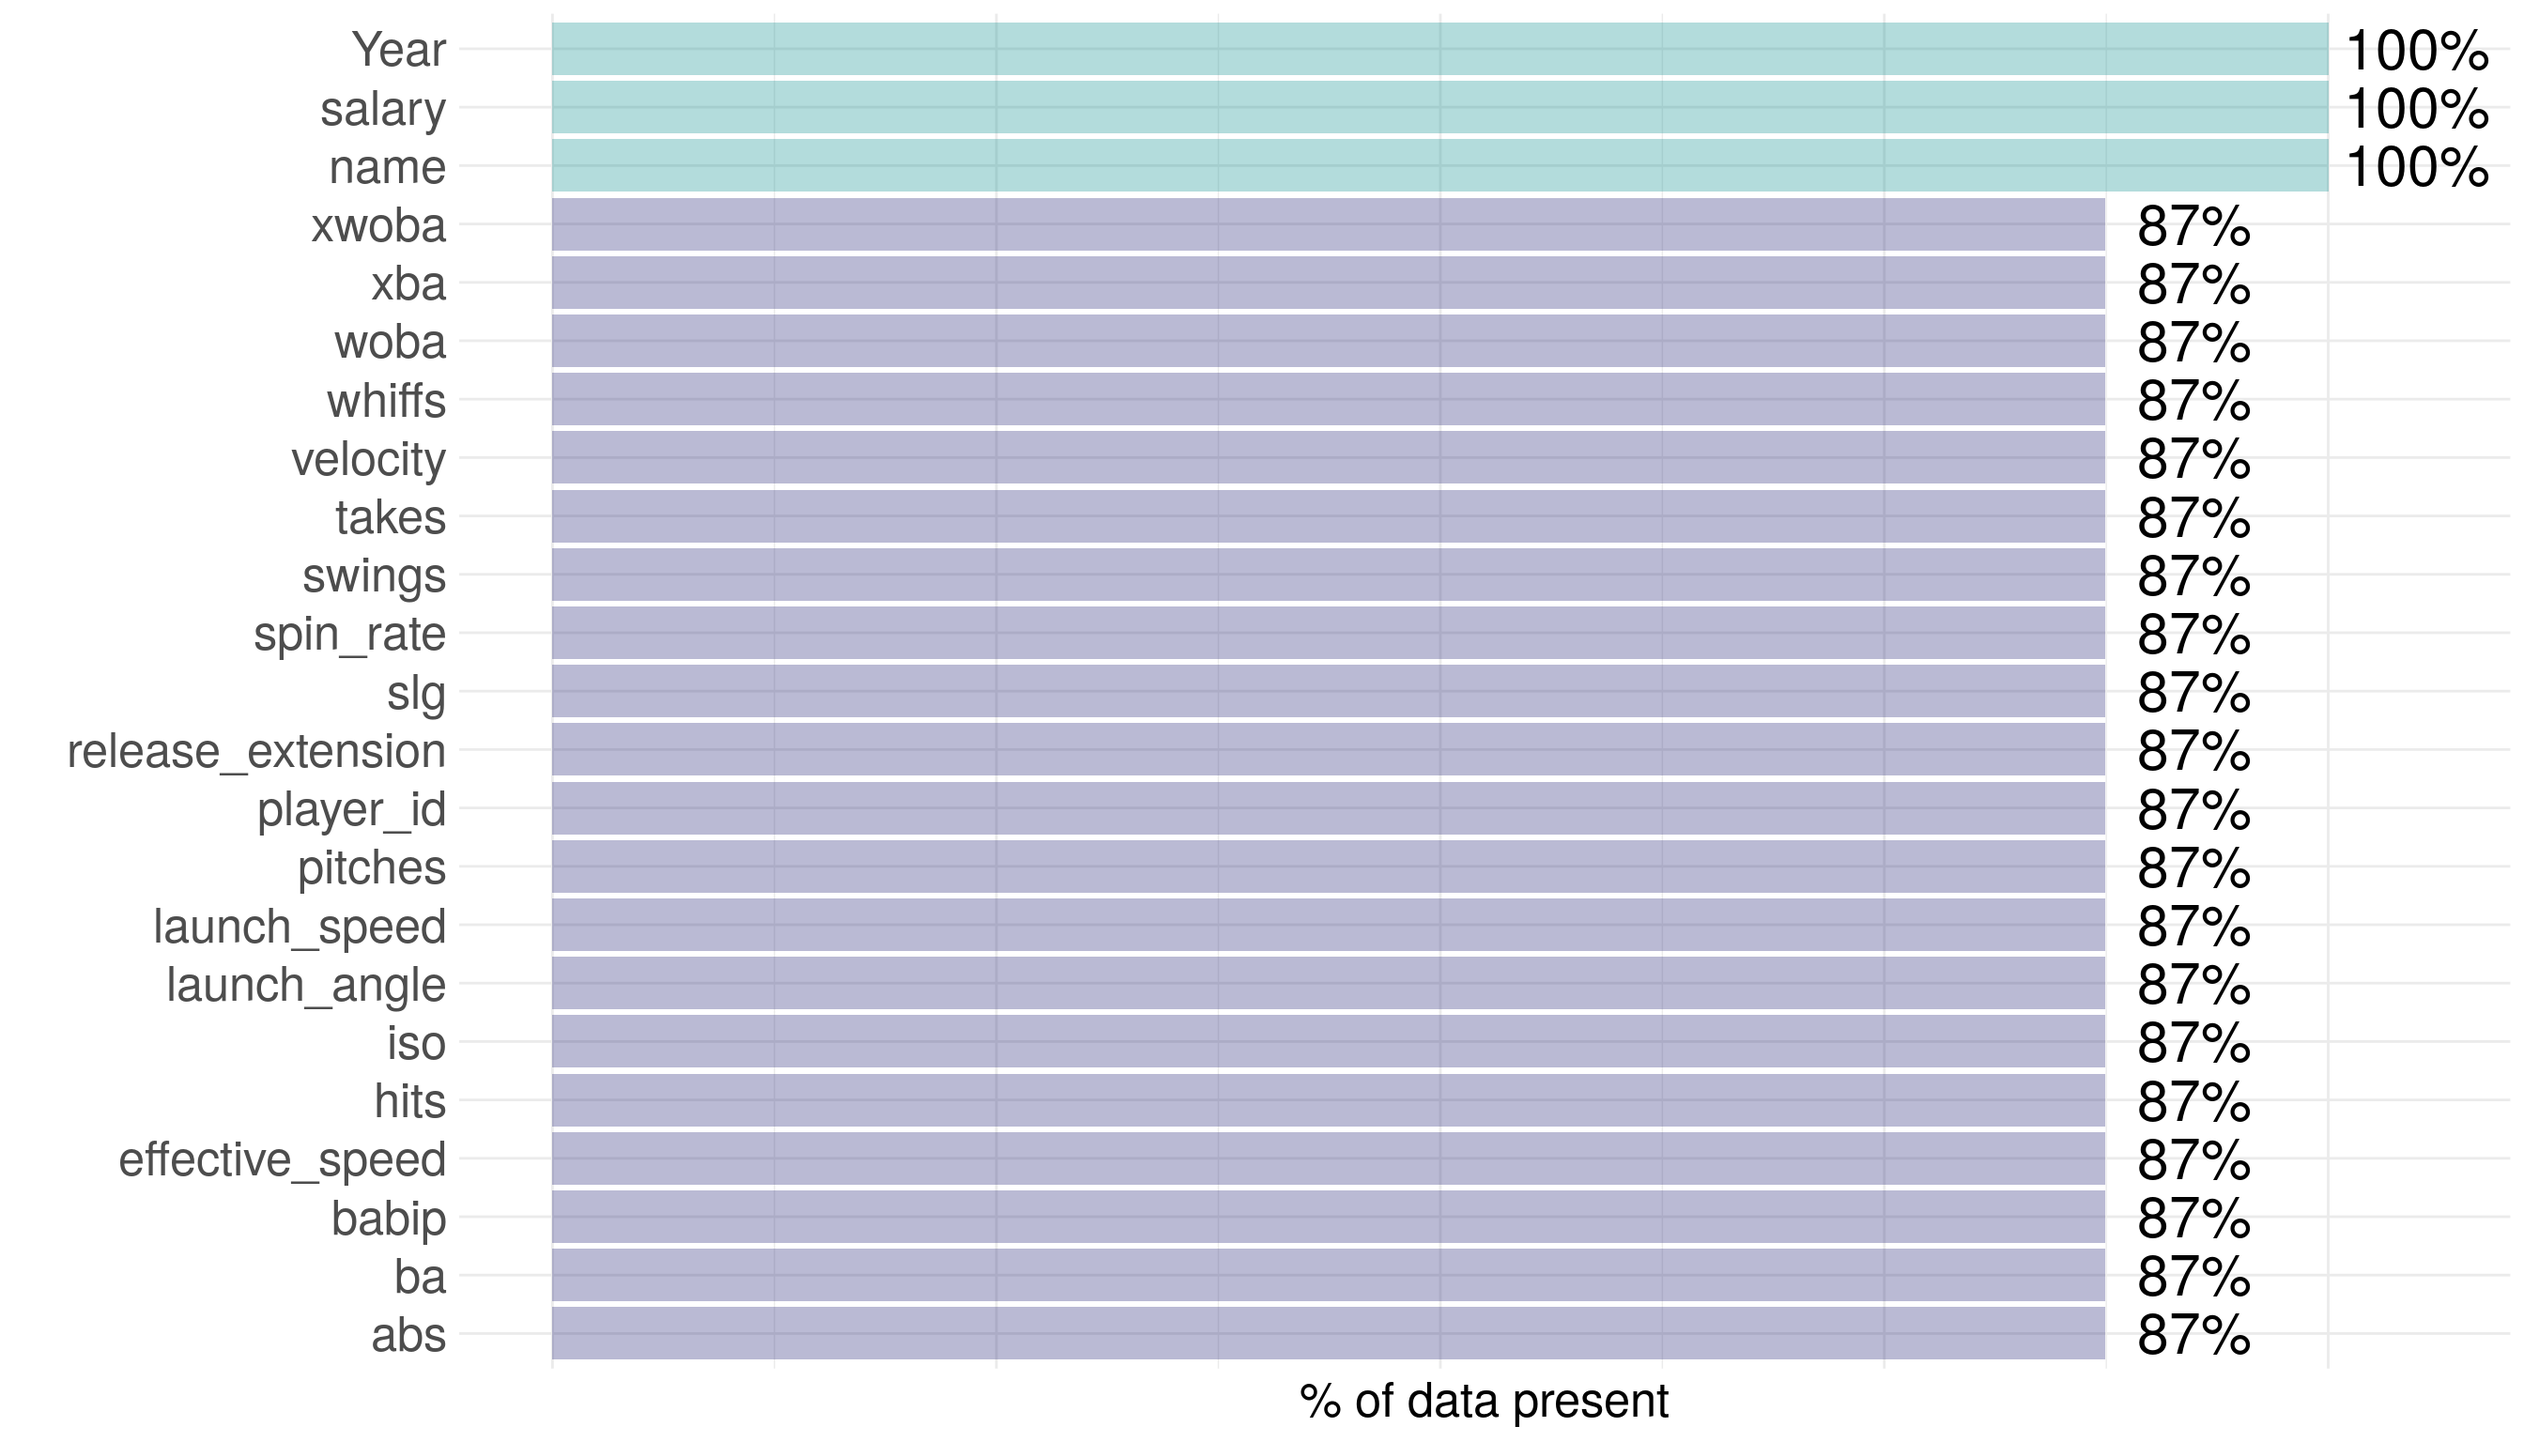
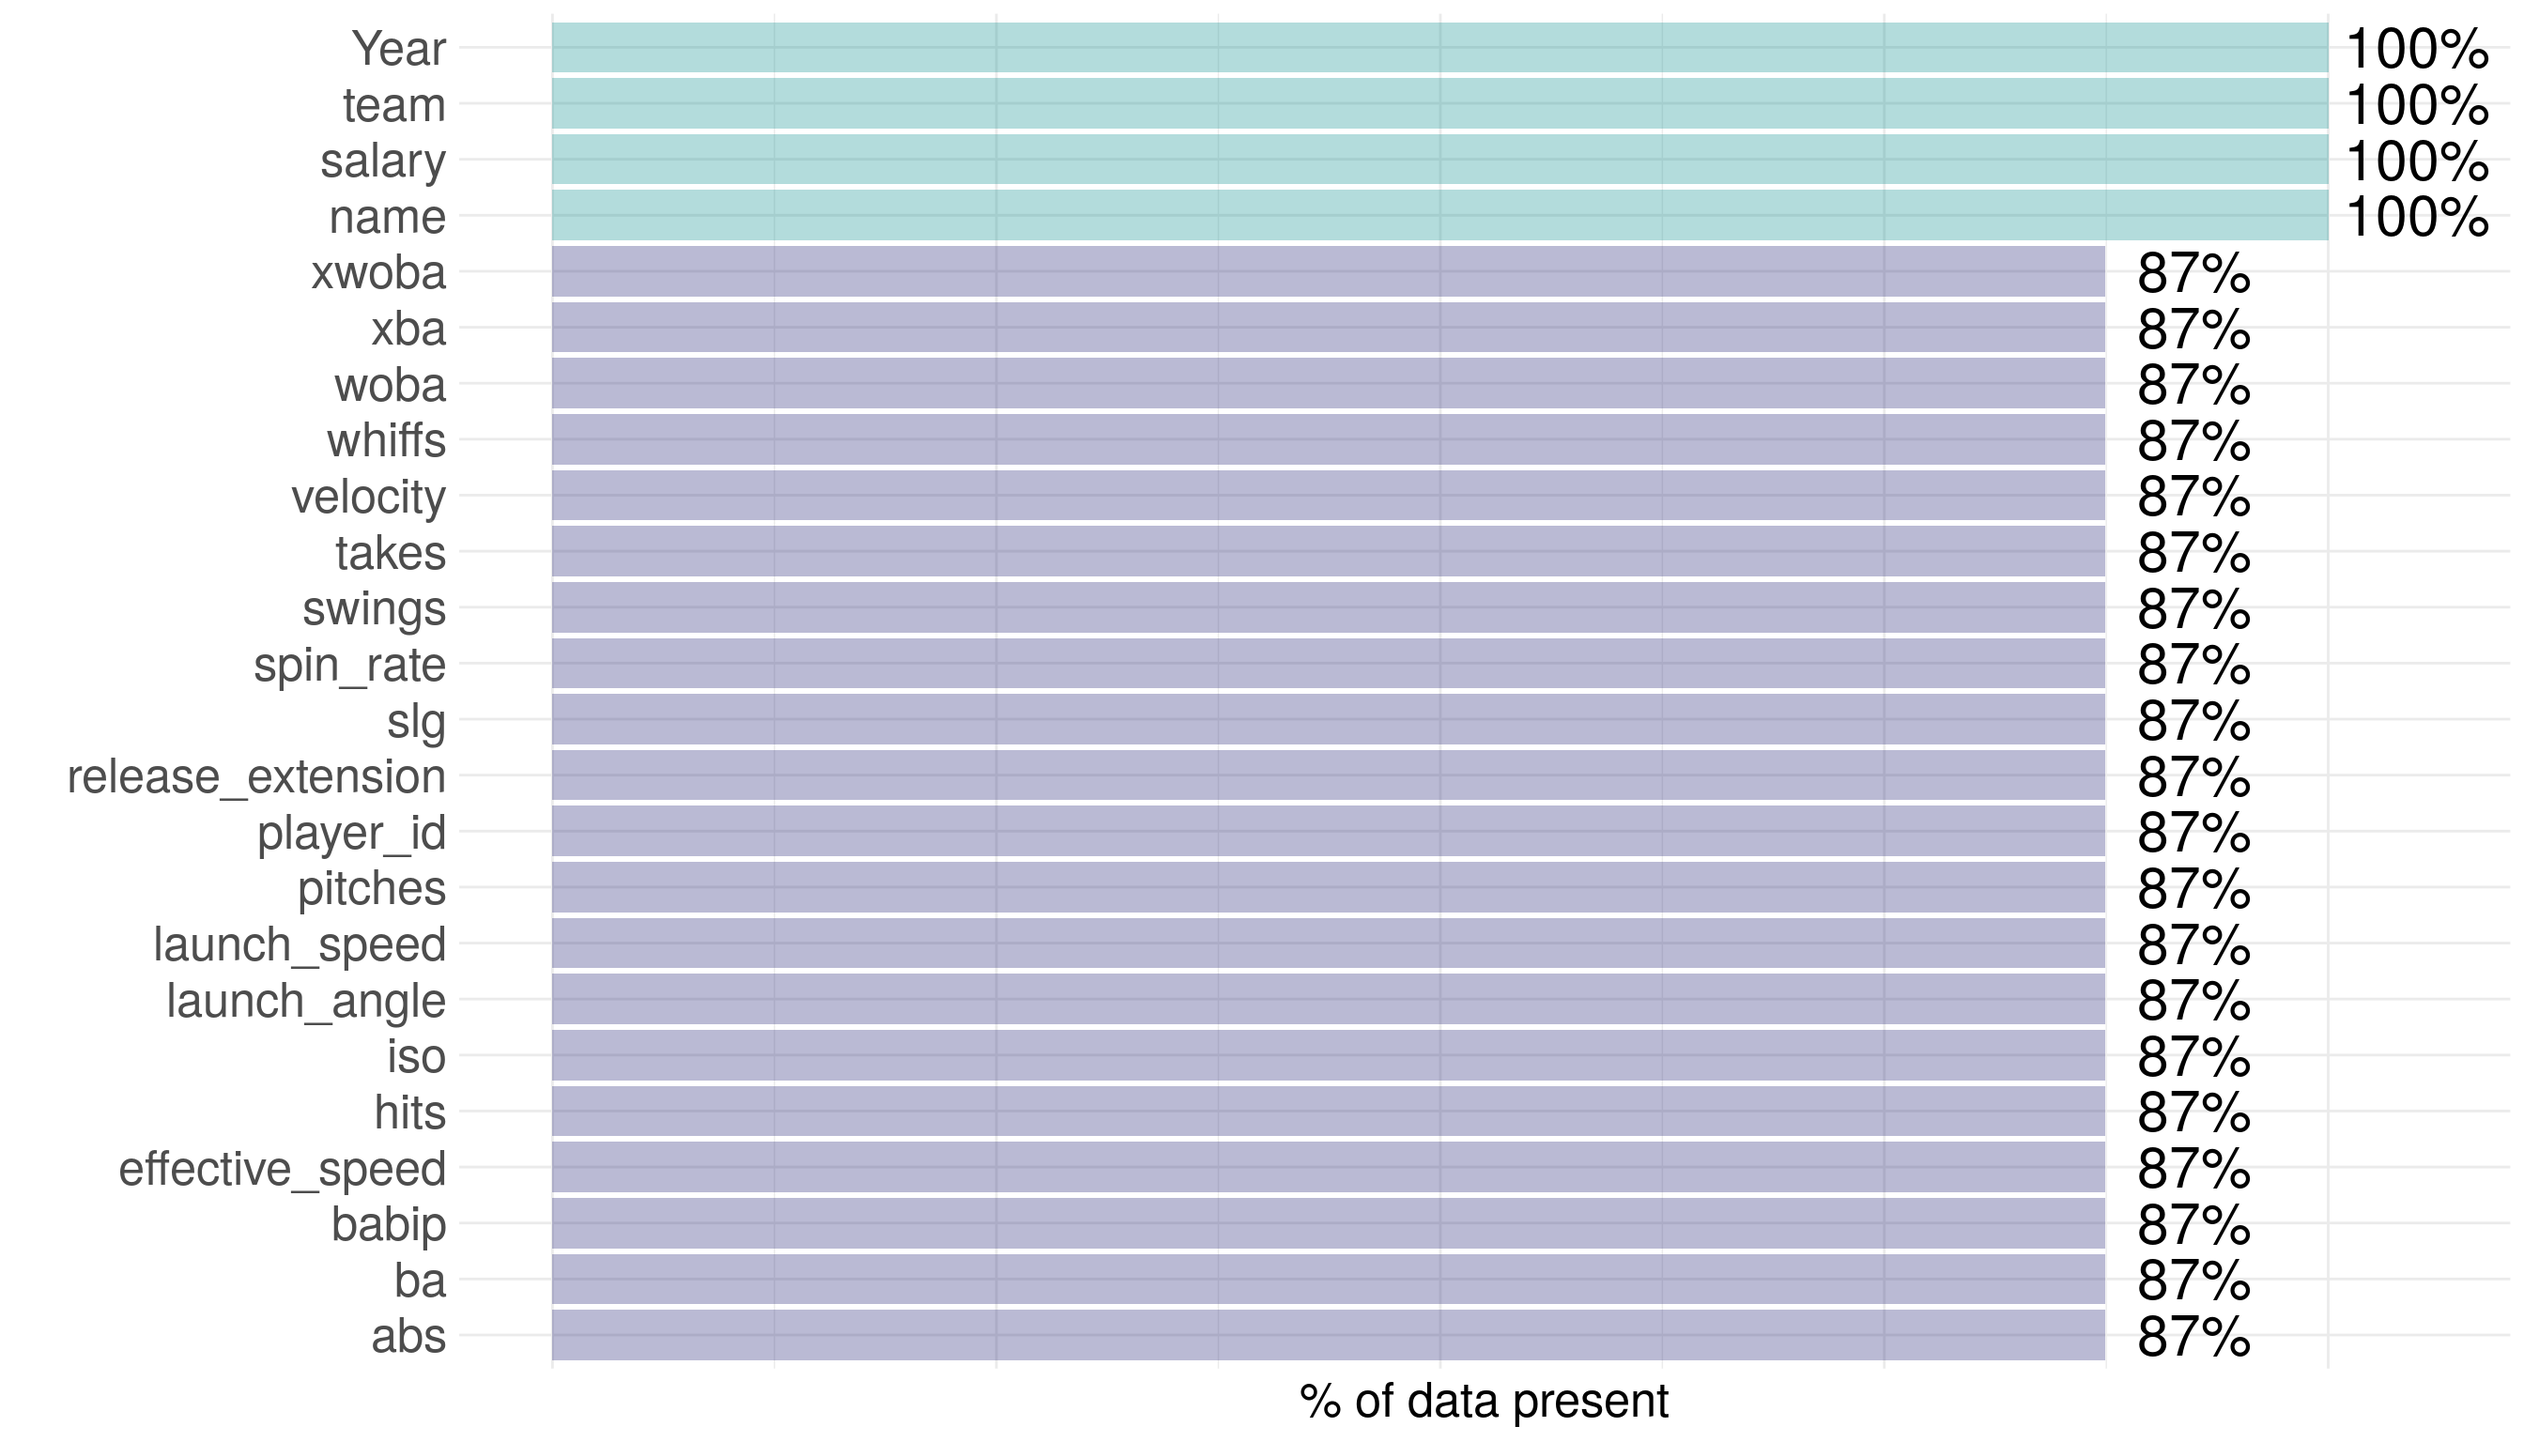
added teams

Changed region(s): [[0.2188, 0.0312, 1.0, 0.9375], [0.0312, 0.0625, 0.1875, 0.9062], [0.2188, 0.0312, 0.9062, 0.0938]]

diff --git a/README.md b/README.md
@@ -34,7 +34,7 @@ and advanced pitching statistics from Baseball Savant’s
 scraping and cleaning process is documented
 [here](https://github.com/Reed-Math241/pkgGrpq/blob/master/data-raw/DATASET.R).
 
-The `pitchR` package contains one dataset, with 23 variables and 662
+The `pitchR` package contains one dataset, with 24 variables and 662
 observations.
 
 ``` r
@@ -47,15 +47,18 @@ in-depth description of the data:
 
 ``` r
 head(pitchR, 3)
-#> # A tibble: 3 x 23
-#>   name  salary  Year pitches player_id    ba   iso babip   slg  woba xwoba   xba
-#>   <chr>  <dbl> <dbl>   <dbl>     <dbl> <dbl> <dbl> <dbl> <dbl> <dbl> <dbl> <dbl>
-#> 1 clay… 3.56e7  2018    2364    477132 0.227 0.139 0.276 0.366 0.272 0.285 0.24 
-#> 2 rich… 1.67e7  2018    2104    448179 0.219 0.181 0.272 0.4   0.297 0.309 0.229
-#> 3 hyun… 7.83e6  2018    1238    547943 0.221 0.14  0.282 0.362 0.268 0.278 0.228
-#> # … with 11 more variables: hits <dbl>, abs <dbl>, launch_speed <dbl>,
-#> #   launch_angle <dbl>, spin_rate <dbl>, velocity <dbl>, effective_speed <dbl>,
-#> #   whiffs <dbl>, swings <dbl>, takes <dbl>, release_extension <dbl>
+#>             name   salary team Year pitches player_id    ba   iso babip   slg
+#> 1 claytonkershaw 35571428  LAD 2018    2364    477132 0.227 0.139 0.276 0.366
+#> 2       richhill 16666666  LAD 2018    2104    448179 0.219 0.181 0.272 0.400
+#> 3     hyunjinryu  7833333  LAD 2018    1238    547943 0.221 0.140 0.282 0.362
+#>    woba xwoba   xba hits abs launch_speed launch_angle spin_rate velocity
+#> 1 0.272 0.285 0.240  139 612         88.0          9.4      2456     86.7
+#> 2 0.297 0.309 0.229  108 493         88.8         15.7      2626     83.3
+#> 3 0.268 0.278 0.228   68 307         86.2         13.2      2052     84.6
+#>   effective_speed whiffs swings takes release_extension
+#> 1           86.65    277   1208  1142              6.20
+#> 2           82.68    244    988  1104              6.04
+#> 3           84.83    156    568   665              6.38
 ```
 
 Here is a breakdown of how much missing data we have by variable. We
@@ -74,12 +77,10 @@ library(tidyverse)
 
 pitchR %>% 
   count(Year)
-#> # A tibble: 3 x 2
-#>    Year     n
-#>   <dbl> <int>
-#> 1  2018   251
-#> 2  2019   211
-#> 3  2020   200
+#>   Year   n
+#> 1 2018 251
+#> 2 2019 211
+#> 3 2020 200
 
 pitchR %>% 
   group_by(Year) %>% 
